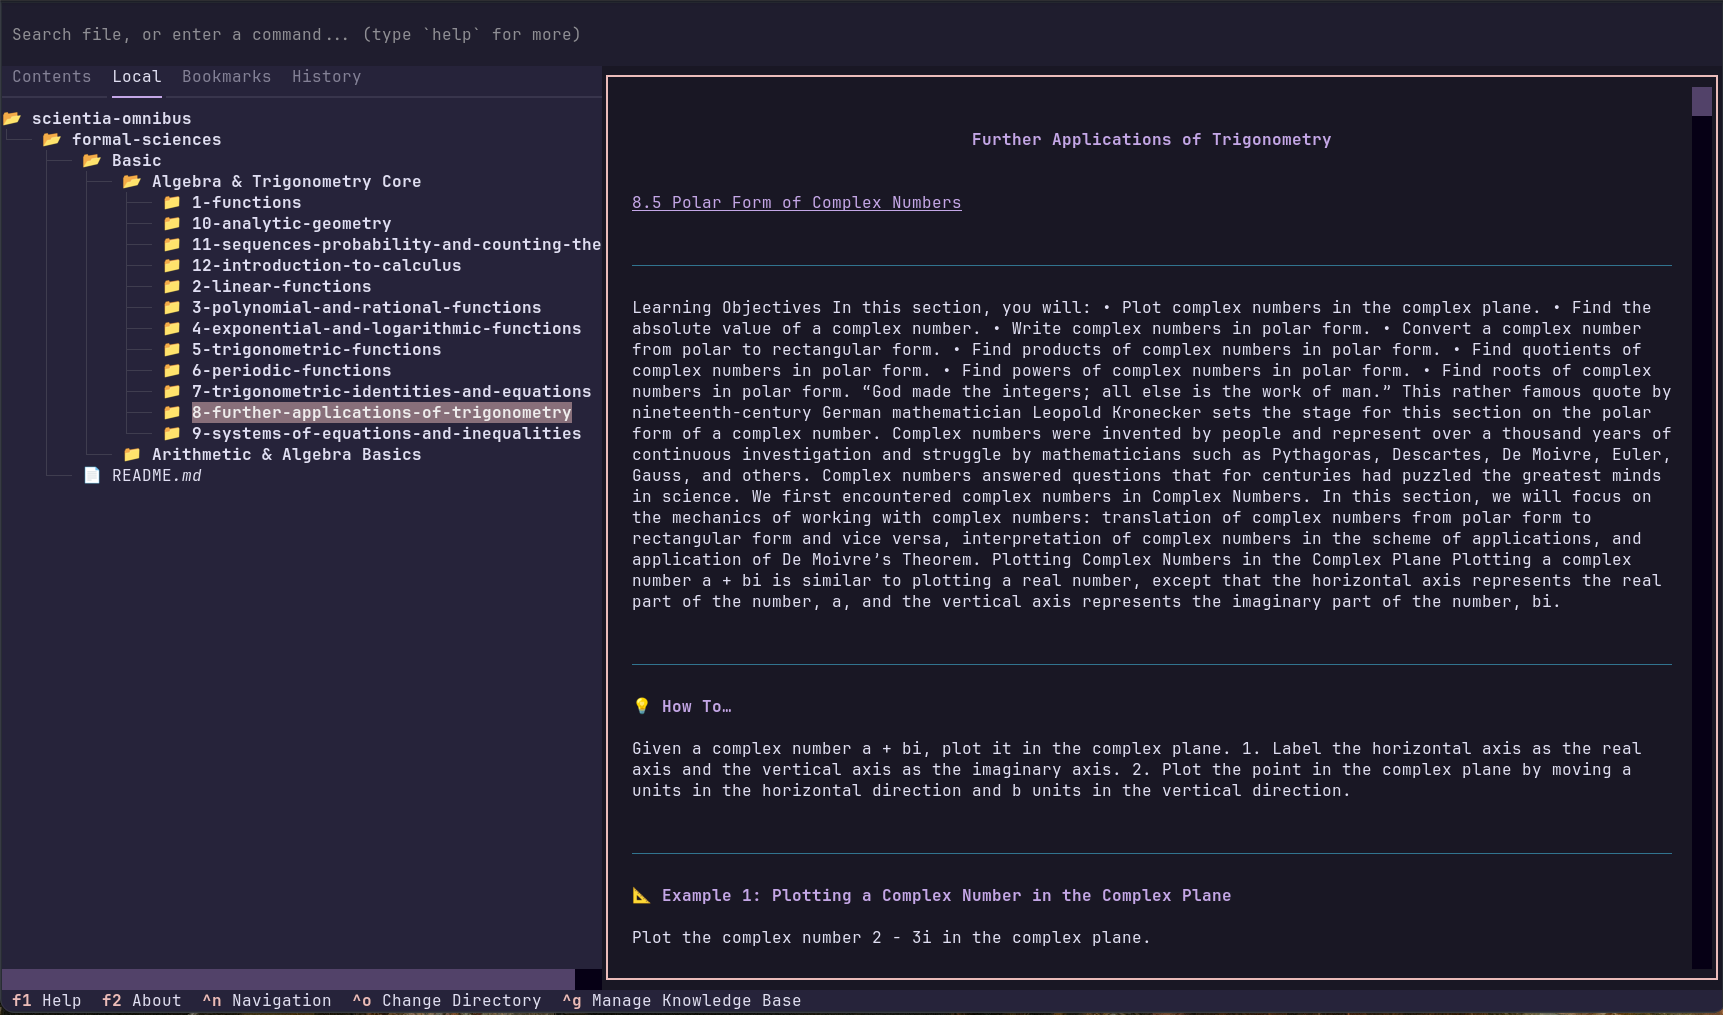
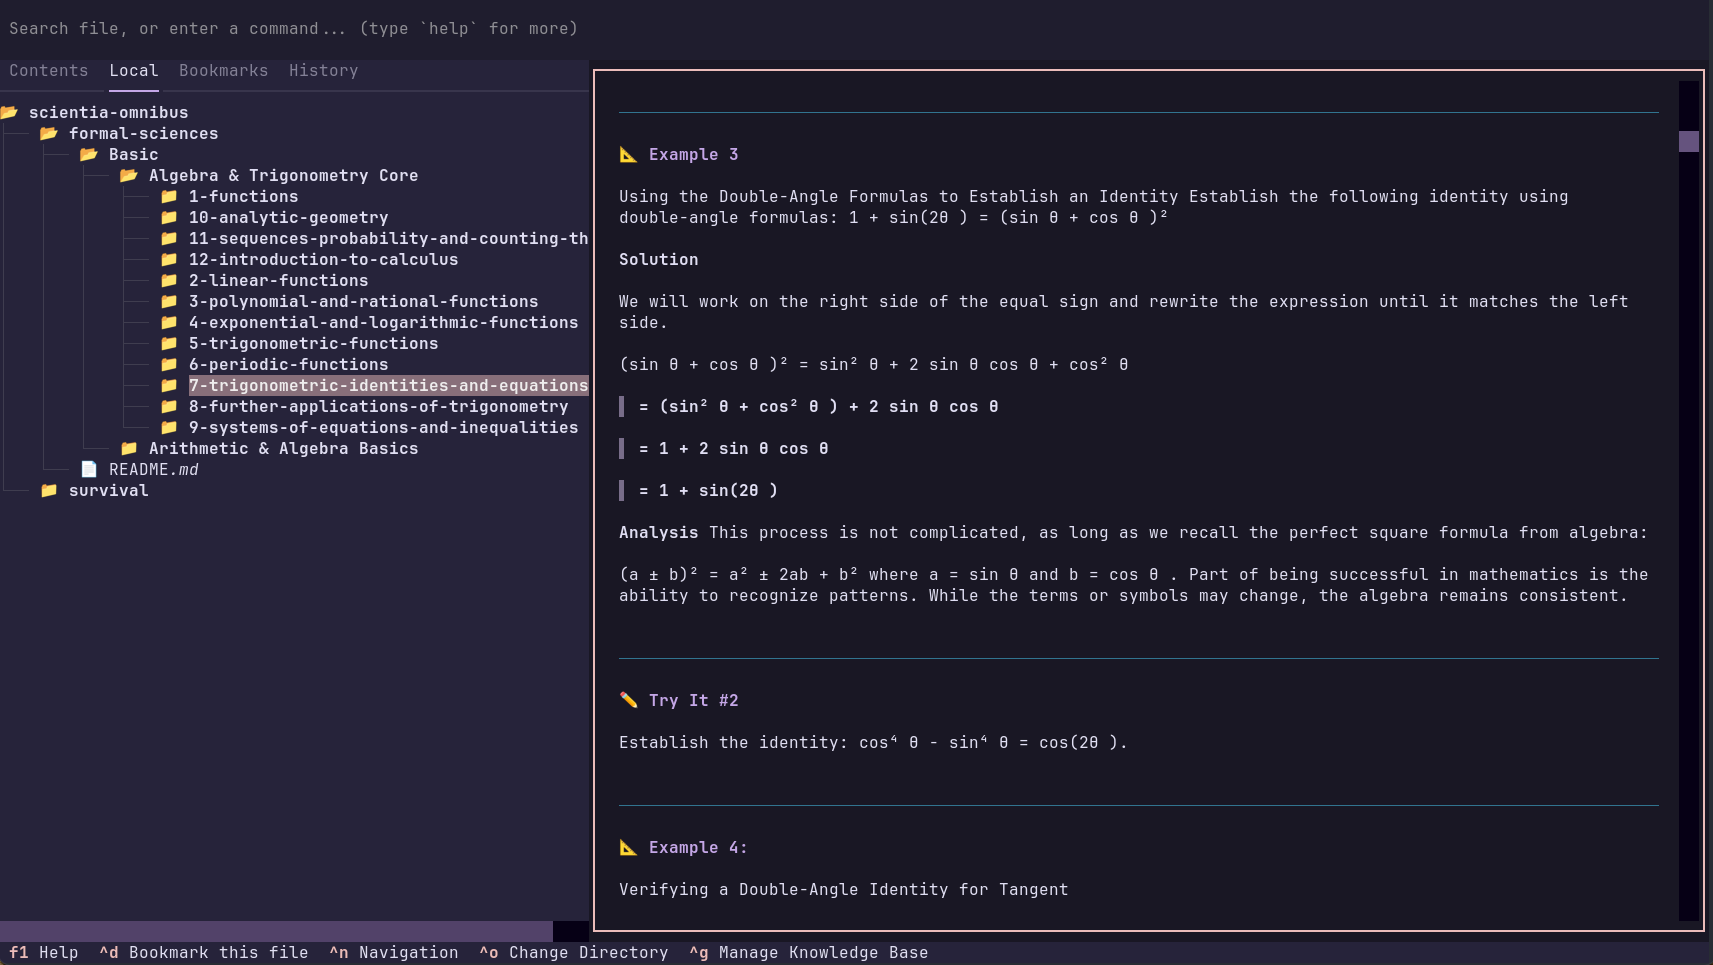
copy button (for commands) + KB Tree added

Changed region(s): [[0.0, 0.0, 1.0, 1.0], [0.5569, 0.1244, 0.7735, 0.1554], [0.2166, 0.0311, 0.2475, 0.0622]]

diff --git a/src/components/ProjectsSection.tsx b/src/components/ProjectsSection.tsx
@@ -1,8 +1,10 @@
+import { useState } from 'react';
 import { Link } from 'react-router-dom';
 import { Language } from '../types';
-import { RELEASED_PROJECTS, UPCOMING_PROJECTS, UI_TRANSLATIONS } from '../data/modules';
+import { RELEASED_PROJECTS, UPCOMING_PROJECTS, MODULES, UI_TRANSLATIONS } from '../data/modules';
 import { Github, BookOpen, Terminal } from 'lucide-react';
 import screenshotEducation from '../assets/images/screenshot-education.png';
+import screenshotSurvival from '../assets/images/screenshot-survival.png';
 import InstallCallout from './InstallCallout';
 
 interface ProjectsSectionProps {
@@ -10,8 +12,11 @@ interface ProjectsSectionProps {
 }
 
 export default function ProjectsSection({ language }: ProjectsSectionProps) {
+  const [activeScreenshot, setActiveScreenshot] = useState<'education' | 'survival'>('education');
   const t = UI_TRANSLATIONS;
   const coreProject = RELEASED_PROJECTS[0];
+  const educationModule = MODULES.find((m) => m.id === 'education');
+  const survivalModule = MODULES.find((m) => m.id === 'survival');
 
   return (
     <section id="projects" className="py-12 sm:py-20 bg-[#FFFCEE] border-b-3 border-stone-900">
@@ -97,11 +102,33 @@ export default function ProjectsSection({ language }: ProjectsSectionProps) {
               <span className="ml-2 font-mono text-[10px] sm:text-xs text-stone-500 truncate">
                 scientia-core
               </span>
+              <div className="ml-auto flex gap-1">
+                <button
+                  onClick={() => setActiveScreenshot('education')}
+                  className={`text-[10px] font-mono font-bold px-2 py-0.5 rounded border transition-colors ${
+                    activeScreenshot === 'education'
+                      ? 'bg-cartoon-green text-stone-900 border-stone-900'
+                      : 'bg-stone-800 text-stone-500 border-stone-700 hover:text-stone-300'
+                  }`}
+                >
+                  {educationModule?.title[language]}
+                </button>
+                <button
+                  onClick={() => setActiveScreenshot('survival')}
+                  className={`text-[10px] font-mono font-bold px-2 py-0.5 rounded border transition-colors ${
+                    activeScreenshot === 'survival'
+                      ? 'bg-cartoon-green text-stone-900 border-stone-900'
+                      : 'bg-stone-800 text-stone-500 border-stone-700 hover:text-stone-300'
+                  }`}
+                >
+                  {survivalModule?.title[language]}
+                </button>
+              </div>
             </div>
 
             <div className="bg-[#110e19] p-2 sm:p-3">
               <img
-                src={screenshotEducation}
+                src={activeScreenshot === 'education' ? screenshotEducation : screenshotSurvival}
                 alt="scientia-core"
                 className="w-full h-auto rounded border border-stone-800"
               />
@@ -125,15 +152,23 @@ export default function ProjectsSection({ language }: ProjectsSectionProps) {
               {t.formalSciencesDesc[language]}
             </p>
 
-            <div className="ml-2 space-y-0.5 mb-3">
-              <div className="text-xs sm:text-sm text-stone-700 font-mono">
-                <span className="text-stone-400 select-none">├──</span> {t.kbBasic[language]}/
+            <div className="ml-2 mb-3 font-mono text-xs sm:text-sm">
+              <div className="relative pl-4 pb-0.5">
+                <span className="absolute left-0 top-0 bottom-0 w-3 border-l-2 border-stone-300 rounded-bl" />
+                <span className="absolute left-0 top-[0.55em] w-3 border-b-2 border-stone-300" />
+                <span className="pl-1 text-stone-900 font-semibold">{t.kbBasic[language]}/</span>
+                <span className="text-[10px] ml-1.5 text-emerald-600 font-bold">✓ {language === 'en' ? 'done' : 'гатова'}</span>
               </div>
-              <div className="text-xs sm:text-sm text-stone-700 font-mono">
-                <span className="text-stone-400 select-none">├──</span> {t.kbAlgebraCore[language]}/
+              <div className="relative pl-4 pb-0.5">
+                <span className="absolute left-0 top-0 bottom-0 w-3 border-l-2 border-stone-300 rounded-bl" />
+                <span className="absolute left-0 top-[0.55em] w-3 border-b-2 border-stone-300" />
+                <span className="pl-1 text-stone-700">{t.kbAlgebraCore[language]}/</span>
+                <span className="text-[10px] ml-1.5 text-emerald-600 font-bold">✓ {language === 'en' ? 'done' : 'гатова'}</span>
               </div>
-              <div className="text-xs sm:text-sm text-stone-400 font-mono">
-                <span className="text-stone-400 select-none">└──</span> {t.kbAdvanced[language]}
+              <div className="relative pl-4">
+                <span className="absolute left-0 top-0 w-3 border-l-2 border-stone-300" style={{ height: '0.55em' }} />
+                <span className="absolute left-0 top-[0.55em] w-3 border-b-2 border-stone-300" />
+                <span className="pl-1 text-stone-400">{t.kbAdvanced[language]}</span>
               </div>
             </div>
 

diff --git a/src/components/InstallCallout.tsx b/src/components/InstallCallout.tsx
@@ -1,4 +1,5 @@
-import { Terminal, Sparkles } from 'lucide-react';
+import { useState } from 'react';
+import { Terminal, Sparkles, Copy, Check } from 'lucide-react';
 import { Language } from '../types';
 import { UI_TRANSLATIONS } from '../data/modules';
 
@@ -12,7 +13,15 @@ interface InstallCalloutProps {
 }
 
 export default function InstallCallout({ language, className = '' }: InstallCalloutProps) {
+  const [copiedBash, setCopiedBash] = useState(false);
+  const [copiedUv, setCopiedUv] = useState(false);
   const t = UI_TRANSLATIONS;
+
+  const copyToClipboard = async (text: string, setCopied: (v: boolean) => void) => {
+    await navigator.clipboard.writeText(text);
+    setCopied(true);
+    setTimeout(() => setCopied(false), 2000);
+  };
 
   return (
     <div
@@ -44,10 +53,19 @@ export default function InstallCallout({ language, className = '' }: InstallCall
               {t.installRecommended[language]}
             </span>
           </div>
-          <pre className="bg-stone-950 text-cartoon-green px-4 py-4 sm:py-5 rounded-lg border-2 border-stone-700 text-sm sm:text-base font-mono overflow-x-auto shadow-[2px_2px_0px_#1A1A1A]">
-            <span className="text-stone-500 select-none">$ </span>
-            {BASH_COMMAND}
-          </pre>
+          <div className="relative">
+            <button
+              onClick={() => copyToClipboard(BASH_COMMAND, setCopiedBash)}
+              className="absolute top-2 right-2 z-10 p-1.5 rounded border bg-stone-800 border-stone-600 text-stone-400 hover:text-stone-200 hover:border-stone-400 transition-colors"
+              aria-label="Copy command"
+            >
+              {copiedBash ? <Check className="h-3.5 w-3.5 text-cartoon-green" /> : <Copy className="h-3.5 w-3.5" />}
+            </button>
+            <pre className="bg-stone-950 text-cartoon-green px-4 py-4 sm:py-5 rounded-lg border-2 border-stone-700 text-sm sm:text-base font-mono overflow-x-auto shadow-[2px_2px_0px_#1A1A1A]">
+              <span className="text-stone-500 select-none">$ </span>
+              {BASH_COMMAND}
+            </pre>
+          </div>
         </div>
 
         <div className="rounded-lg border border-stone-800 bg-[#0d0b14] p-3 sm:p-4">
@@ -65,10 +83,19 @@ export default function InstallCallout({ language, className = '' }: InstallCall
               git-scm.com
             </a>
           </p>
-          <pre className="bg-stone-950/80 text-stone-400 px-3 py-2.5 rounded-lg border border-stone-800 text-xs sm:text-sm font-mono overflow-x-auto">
-            <span className="text-stone-600 select-none">$ </span>
-            {UV_COMMAND}
-          </pre>
+          <div className="relative">
+            <button
+              onClick={() => copyToClipboard(UV_COMMAND, setCopiedUv)}
+              className="absolute top-1.5 right-1.5 z-10 p-1 rounded border bg-stone-800 border-stone-700 text-stone-500 hover:text-stone-300 hover:border-stone-500 transition-colors"
+              aria-label="Copy command"
+            >
+              {copiedUv ? <Check className="h-3 w-3 text-cartoon-green" /> : <Copy className="h-3 w-3" />}
+            </button>
+            <pre className="bg-stone-950/80 text-stone-400 px-3 py-2.5 rounded-lg border border-stone-800 text-xs sm:text-sm font-mono overflow-x-auto">
+              <span className="text-stone-600 select-none">$ </span>
+              {UV_COMMAND}
+            </pre>
+          </div>
         </div>
 
         <p className="text-[11px] font-mono text-stone-500 leading-relaxed pt-1 border-t border-stone-800">

diff --git a/src/pages/ScientiaCoreGuidePage.tsx b/src/pages/ScientiaCoreGuidePage.tsx
@@ -1,6 +1,6 @@
 import { useEffect, useState } from 'react';
 import { Link } from 'react-router-dom';
-import { ArrowLeft } from 'lucide-react';
+import { ArrowLeft, Copy, Check } from 'lucide-react';
 import { useLanguage } from '../context/LanguageContext';
 import { UI_TRANSLATIONS } from '../data/modules';
 import { GUIDE_SECTIONS } from '../data/scientia-core-guide';
@@ -12,6 +12,13 @@ export default function ScientiaCoreGuidePage() {
   const { language, setLanguage } = useLanguage();
   const t = UI_TRANSLATIONS;
   const [activeSection, setActiveSection] = useState(GUIDE_SECTIONS[0].id);
+  const [copiedIndex, setCopiedIndex] = useState<number | null>(null);
+
+  const copyCommand = async (text: string, idx: number) => {
+    await navigator.clipboard.writeText(text);
+    setCopiedIndex(idx);
+    setTimeout(() => setCopiedIndex(null), 2000);
+  };
 
   useEffect(() => {
     const observers: IntersectionObserver[] = [];
@@ -120,9 +127,21 @@ export default function ScientiaCoreGuidePage() {
                         <p className="text-[11px] font-mono font-bold text-stone-500 mb-1">
                           {block.label[language]}
                         </p>
-                        <pre className="bg-stone-900 text-cartoon-green p-3 rounded-lg border border-stone-700 overflow-x-auto text-sm font-mono shadow-[2px_2px_0px_#1A1A1A]">
-                          $ {block.command}
-                        </pre>
+                        <div className="relative">
+                          <button
+                            onClick={() => copyCommand(block.command, i)}
+                            className="absolute top-2 right-2 z-10 p-1.5 rounded border bg-stone-800 border-stone-600 text-stone-500 hover:text-stone-300 hover:border-stone-400 transition-colors"
+                            aria-label="Copy command"
+                          >
+                            {copiedIndex === i
+                              ? <Check className="h-3.5 w-3.5 text-cartoon-green" />
+                              : <Copy className="h-3.5 w-3.5" />
+                            }
+                          </button>
+                          <pre className="bg-stone-900 text-cartoon-green p-3 rounded-lg border border-stone-700 overflow-x-auto text-sm font-mono shadow-[2px_2px_0px_#1A1A1A]">
+                            $ {block.command}
+                          </pre>
+                        </div>
                       </div>
                     ))}
                   </div>

diff --git a/src/data/modules.ts b/src/data/modules.ts
@@ -110,7 +110,7 @@ export const UI_TRANSLATIONS: TranslationDict = {
   },
   installTitle: {
     en: "Installation",
-    by: "Installation"
+    by: "Усталяванне"
   },
   installOneLiner: {
     en: "Linux / macOS",
@@ -118,19 +118,19 @@ export const UI_TRANSLATIONS: TranslationDict = {
   },
   installRecommended: {
     en: "Recommended",
-    by: "Recommended"
+    by: "Рэкамендавана"
   },
   installManual: {
     en: "Manual install",
-    by: "Manual install"
+    by: "Уручную"
   },
   installManualGit: {
     en: "Install Git, then run:",
-    by: "Install Git, then run:"
+    by: "Усталюйце Git, потым выканайце:"
   },
   installUpcoming: {
     en: "Windows support will be added later.",
-    by: "Windows support will be added later."
+    by: "Падтрымка Windows з'явіцца пазней."
   },
   whyTitle: {
     en: "Software Built for Real Constraints",
@@ -225,16 +225,16 @@ export const UI_TRANSLATIONS: TranslationDict = {
     by: "Фармальныя навукі — матэматыка ад асноў да вылічэнняў."
   },
   kbBasic: {
-    en: "Basic",
-    by: "Асновы"
+    en: "Arithmetic & Algebra Basics",
+    by: "Арыфметыка і асновы алгебры"
   },
   kbAlgebraCore: {
     en: "Algebra & Trigonometry Core",
     by: "Алгебра і трыганаметрыя"
   },
   kbAdvanced: {
-    en: "advanced (coming soon)",
-    by: "advanced (хутка)"
+    en: "Advanced (coming soon)",
+    by: "Прасунутае (хутка)"
   },
   kbPlanned: {
     en: "Planned",

diff --git a/src/context/LanguageContext.tsx b/src/context/LanguageContext.tsx
@@ -9,9 +9,19 @@ interface LanguageContextValue {
 const LanguageContext = createContext<LanguageContextValue | null>(null);
 
 export function LanguageProvider({ children }: { children: ReactNode }) {
-  const [language, setLanguage] = useState<Language>('en');
+  const [language, setLanguage] = useState<Language>(() => {
+    if (typeof window === 'undefined') return 'en';
+    const saved = localStorage.getItem('scientia-lang');
+    return saved === 'en' || saved === 'by' ? saved : 'en';
+  });
+
+  const handleSetLanguage = (lang: Language) => {
+    setLanguage(lang);
+    localStorage.setItem('scientia-lang', lang);
+  };
+
   return (
-    <LanguageContext.Provider value={{ language, setLanguage }}>
+    <LanguageContext.Provider value={{ language, setLanguage: handleSetLanguage }}>
       {children}
     </LanguageContext.Provider>
   );

diff --git a/src/components/Header.tsx b/src/components/Header.tsx
@@ -90,9 +90,9 @@ export default function Header({ language, setLanguage, onScrollToSection }: Hea
       <AnimatePresence>
         {mobileMenuOpen && (
           <motion.nav
-            initial={{ opacity: 0, height: 0 }}
-            animate={{ opacity: 1, height: 'auto' }}
-            exit={{ opacity: 0, height: 0 }}
+            initial={{ opacity: 0, maxHeight: 0 }}
+            animate={{ opacity: 1, maxHeight: 300 }}
+            exit={{ opacity: 0, maxHeight: 0 }}
             className="md:hidden border-t-2 border-stone-900 bg-bg-warm overflow-hidden"
           >
             <div className="px-4 py-3 space-y-1">

diff --git a/src/data/scientia-core-guide.ts b/src/data/scientia-core-guide.ts
@@ -35,10 +35,10 @@ export interface GuideSection {
 export const GUIDE_SECTIONS: GuideSection[] = [
   {
     id: 'installation',
-    title: { en: 'Installation', by: 'Installation' },
+    title: { en: 'Installation', by: 'Усталяванне' },
     intro: {
       en: 'On Linux and macOS, run the one-liner below. For manual setup, install Git first, then use uv.',
-      by: 'On Linux and macOS, run the one-liner below. For manual setup, install Git first, then use uv.',
+      by: 'На Linux і macOS запусціце адну каманду ніжэй. Для ручной усталёўкі спачатку ўсталюйце Git, потым выкарыстоўвайце uv.',
     },
   },
   {

diff --git a/src/index.css b/src/index.css
@@ -23,6 +23,8 @@
   --color-cartoon-purple: #DDD6FE;
   --color-cartoon-yellow: #FEF08A;
   --color-bg-warm: #FFFDF5;
+  --color-stone-1000: #050308;
+  --color-gray-750: #2d2a35;
 }
 
 /* Fredoka has no Cyrillic — switch display fonts for Belarusian */